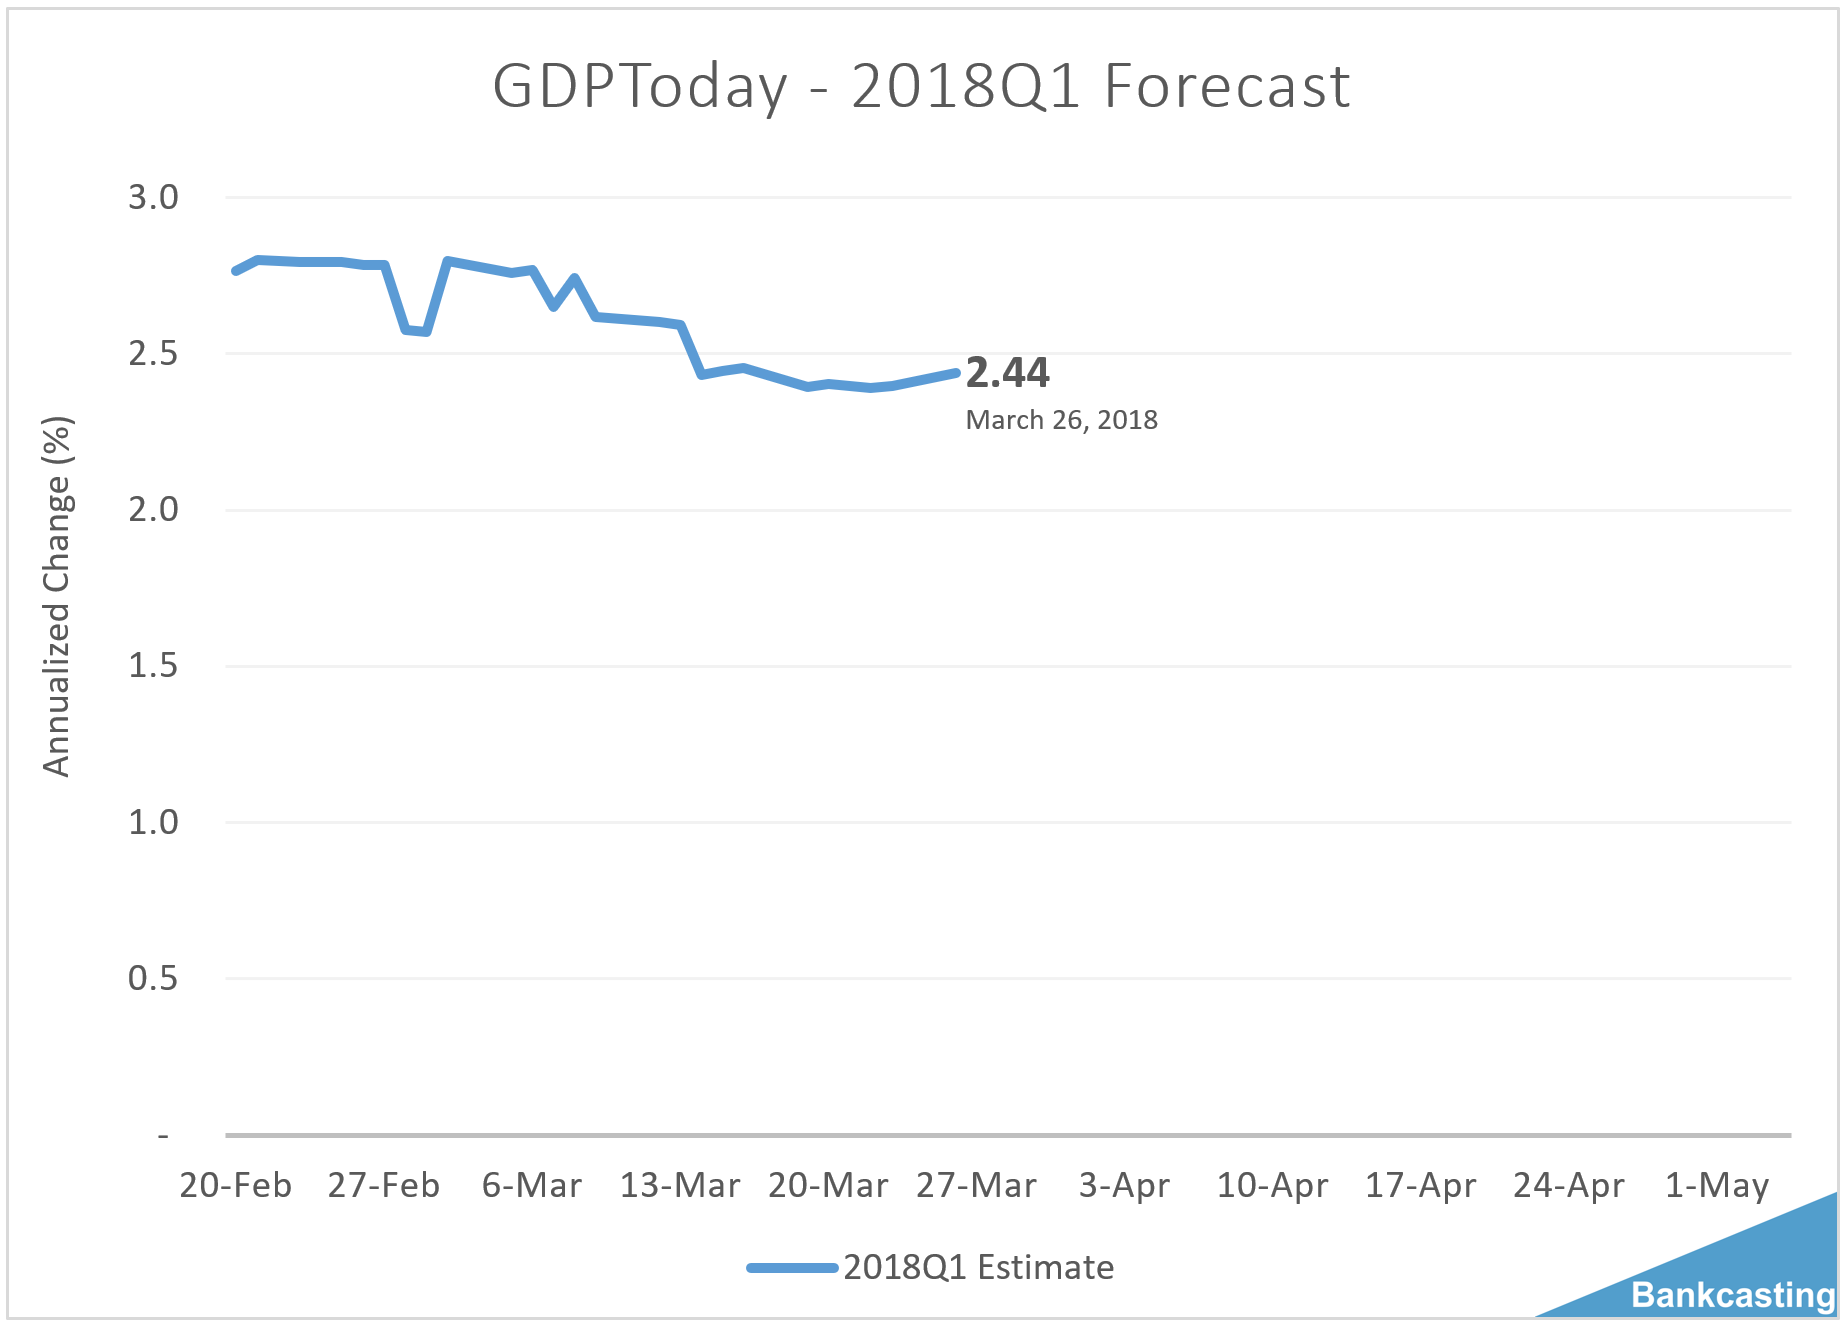
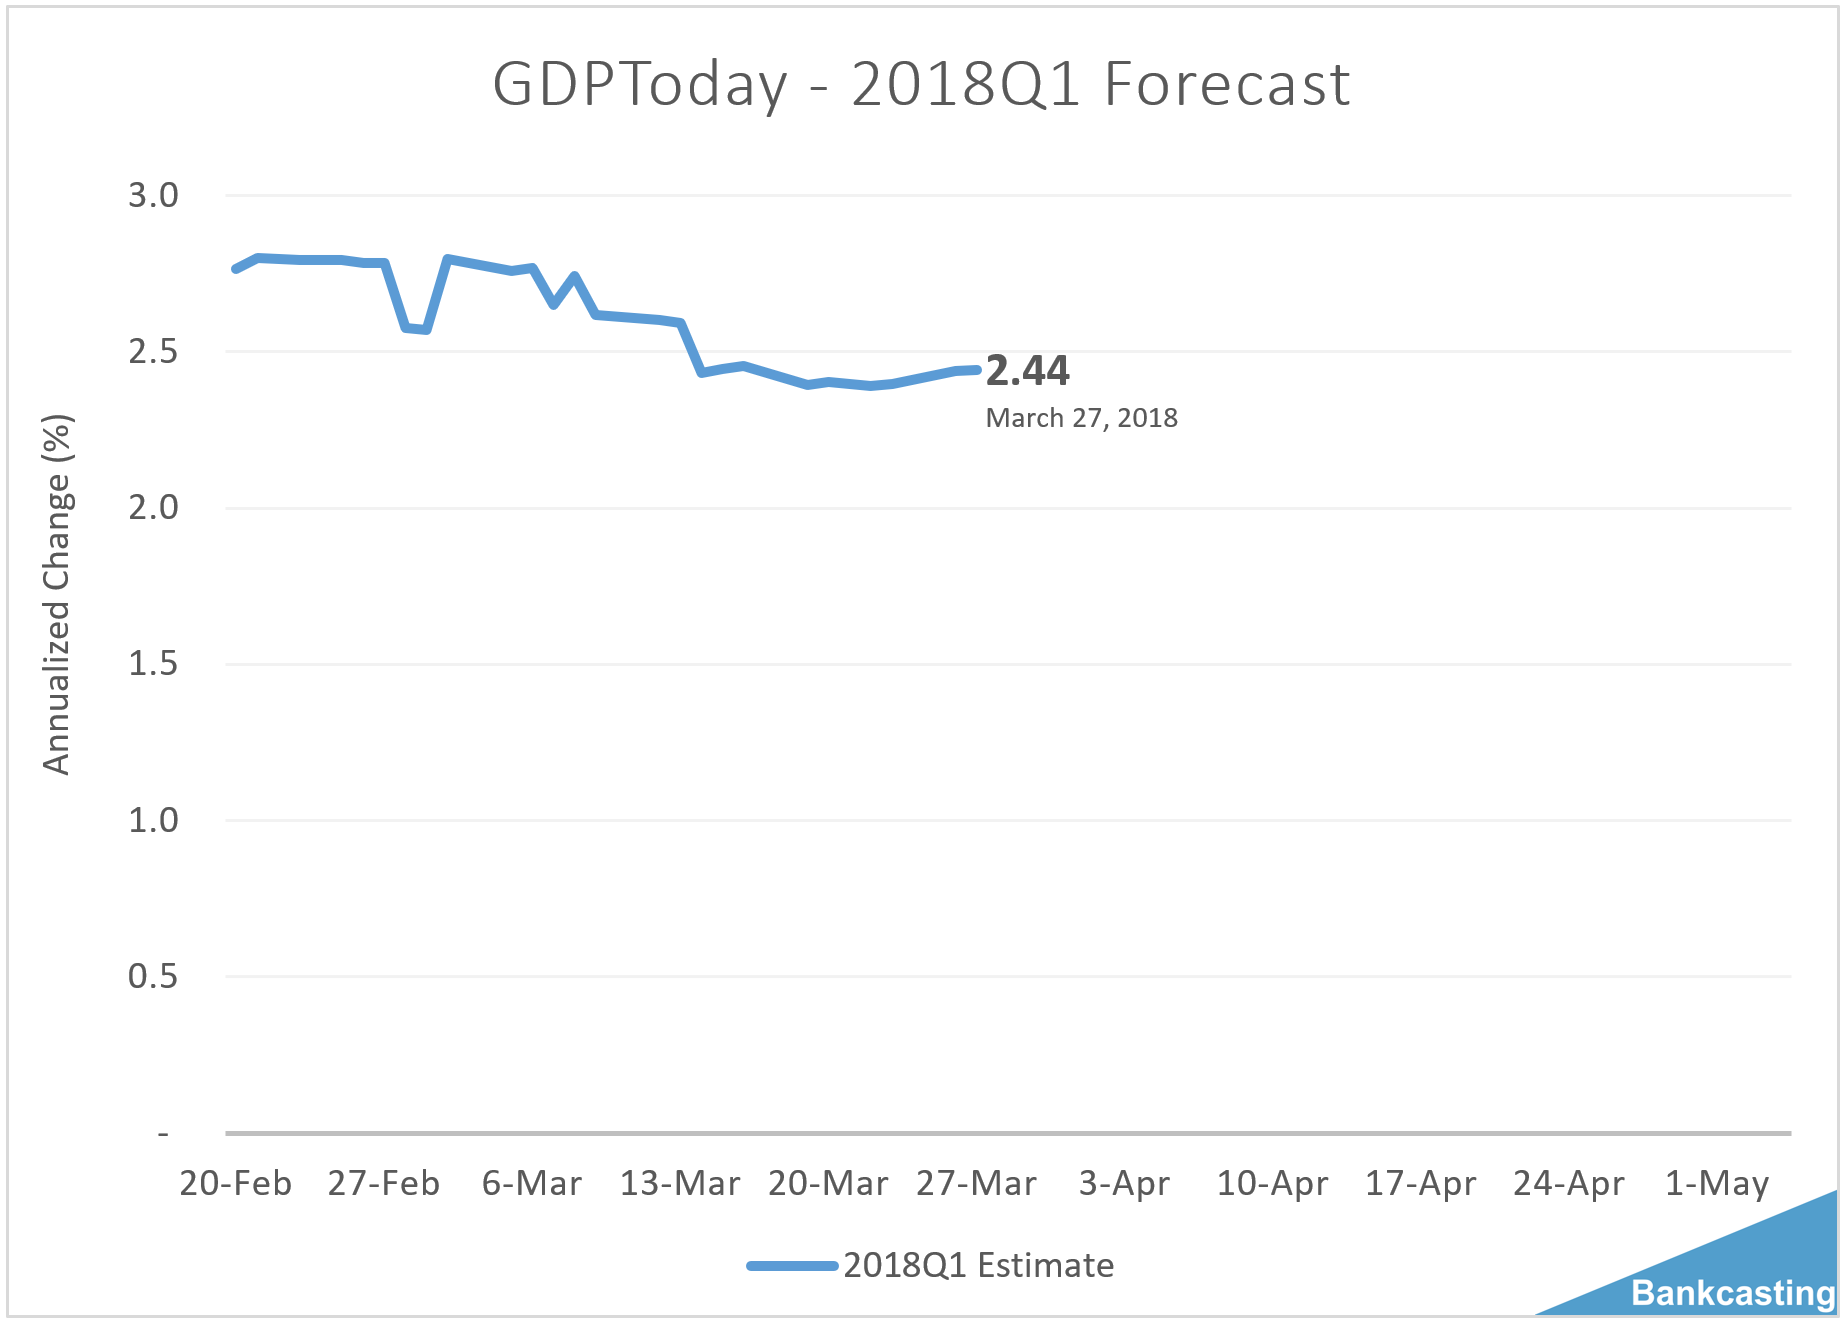
032718 metric update

diff --git a/theme/templates/table-of-contents.html b/theme/templates/table-of-contents.html
@@ -44,6 +44,7 @@
           <h3>6. <a href="/trackers.html">Trackers</a></h3>
           <h4 class="toc-subsection"><a href="/gdptoday.html">6.1. GDPToday</a></h4>
           <h4 class="toc-subsection"><a href="/unemployment.html">6.2. Unemployment</a></h4>
+          <h4 class="toc-subsection"><a href="/djia.html">6.3. Dow Jones</a></h4>          
           <h3><a href="/about.html">About</a></h3>
           <h4 class="toc-subsection"><a href="/disclaimer.html">Disclaimer</a></h4>          
           <h4 class="toc-subsection"><a href="/change-log.html">Change Log</a></h4>

diff --git a/theme/templates/choices/djia.html b/theme/templates/choices/djia.html
@@ -1,0 +1,19 @@
+<h3>What do you want to learn next?</h3>
+<div class="row">
+    <div class="col-md-4">
+        <div class="well select-next">
+            {% include "choices/buttons/change-log.html" %}
+        </div>
+    </div>
+       
+    <div class="col-md-4">
+        <div class="well select-next">
+            {% include "choices/buttons/model-lifecycle.html" %}
+        </div>
+    </div>
+    <div class="col-md-4">
+        <div class="well select-next">
+            {% include "choices/buttons/model-validation.html" %}
+        </div>
+    </div>
+</div>
